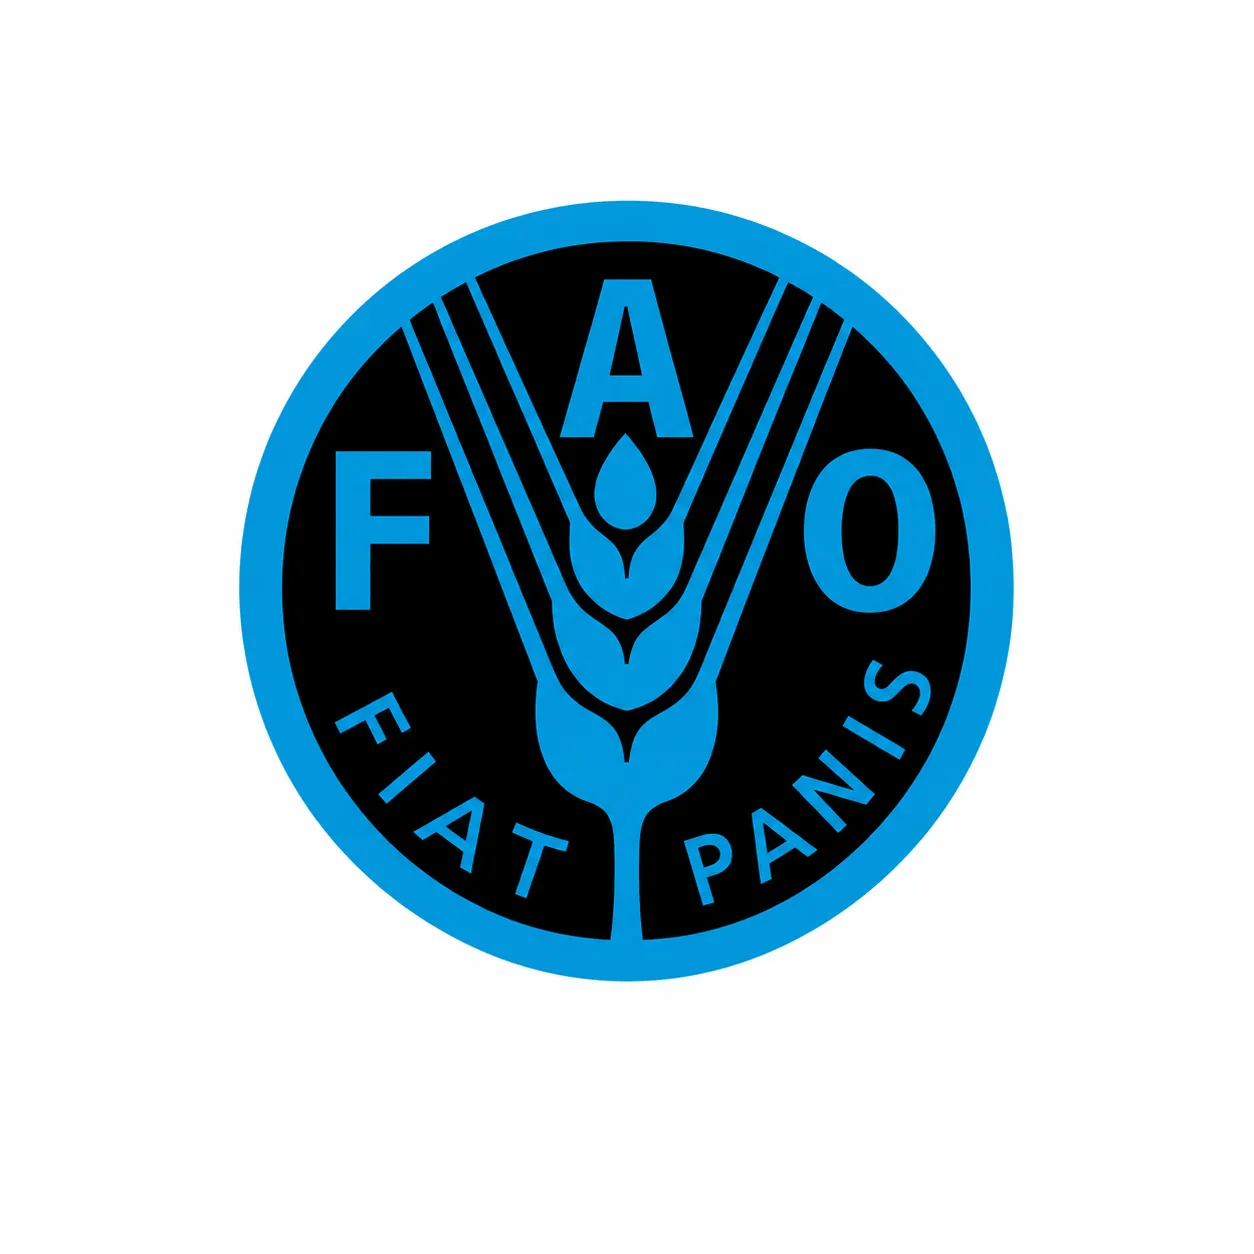
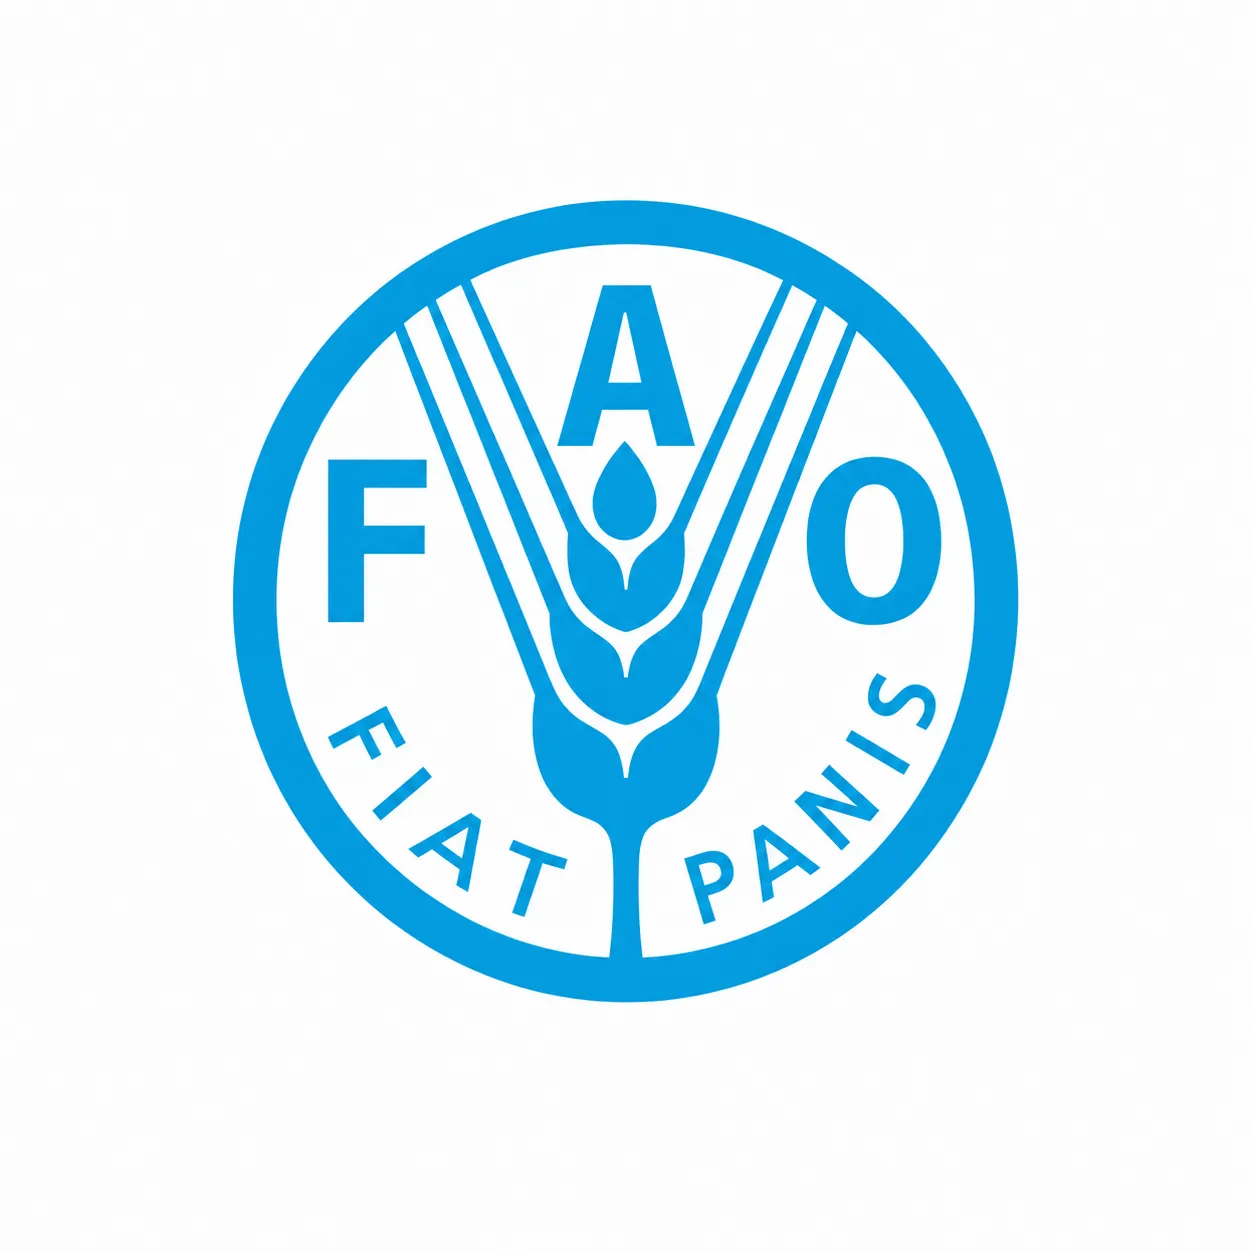
подключила ссылку с др.культуры, заменила лого fao

Changed region(s): [[0.1866, 0.1866, 0.8086, 0.8086], [0.8086, 0.4665, 0.8397, 0.4976]]

diff --git a/components/header.html b/components/header.html
@@ -32,7 +32,7 @@
                             Медоносные травы
                         </a>
 
-                        <a class="otherPlants" href="other_culture.html">
+                        <a class="otherPlants" href="other_cultures.html">
                             Прочие культуры
                         </a>
                     </div>
